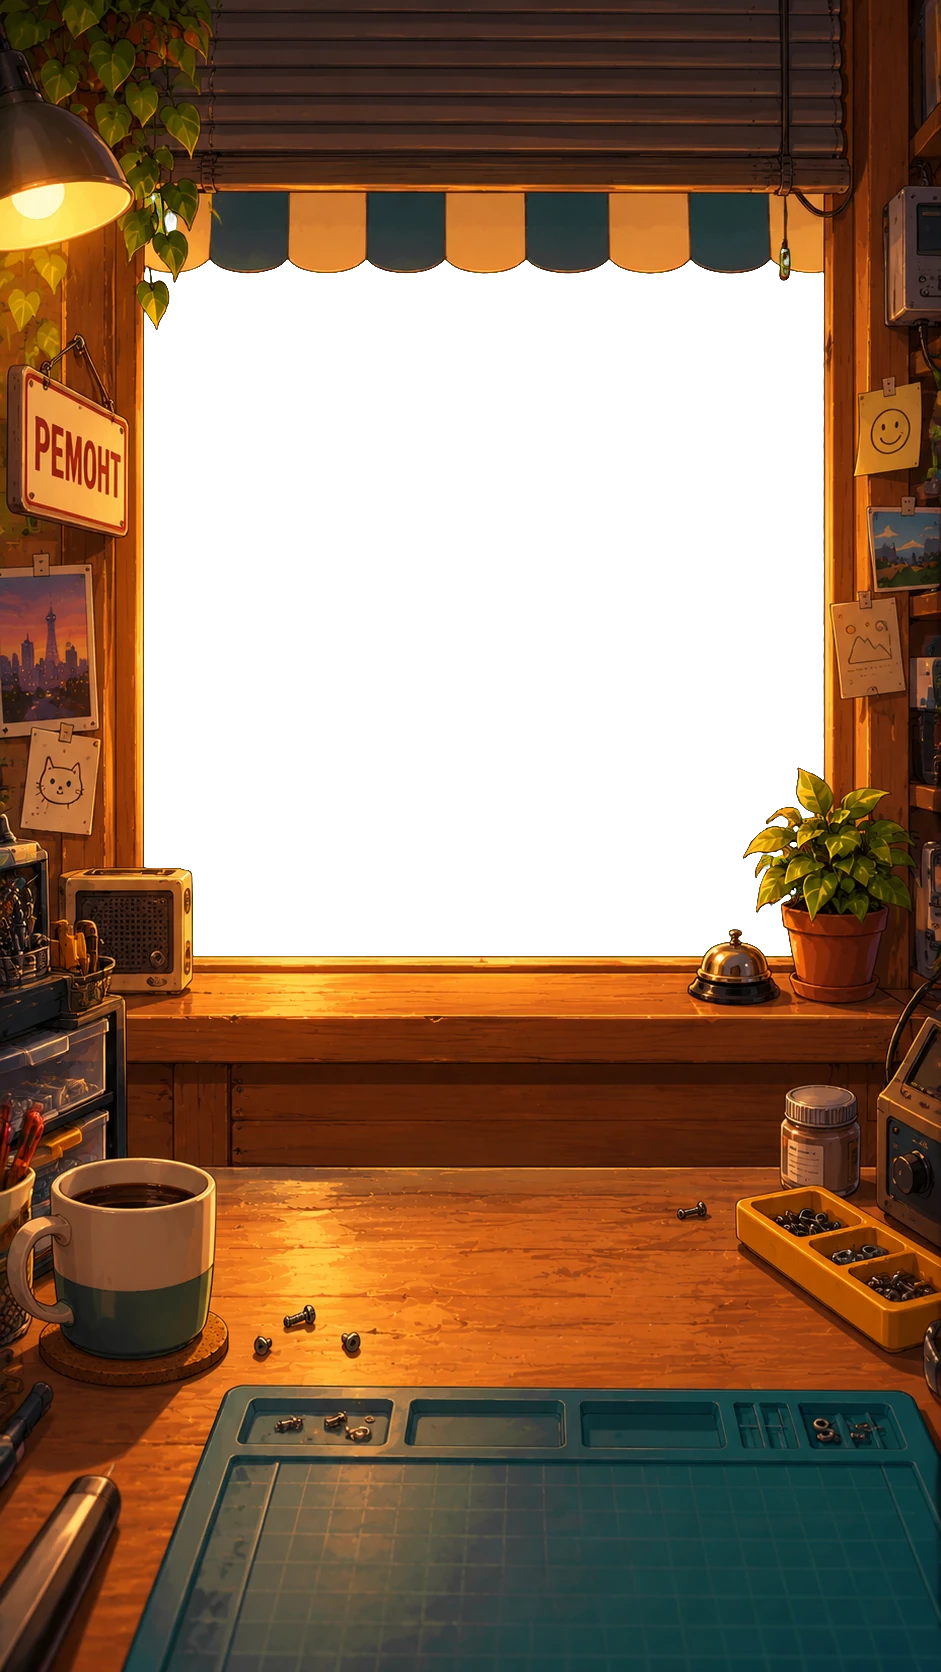
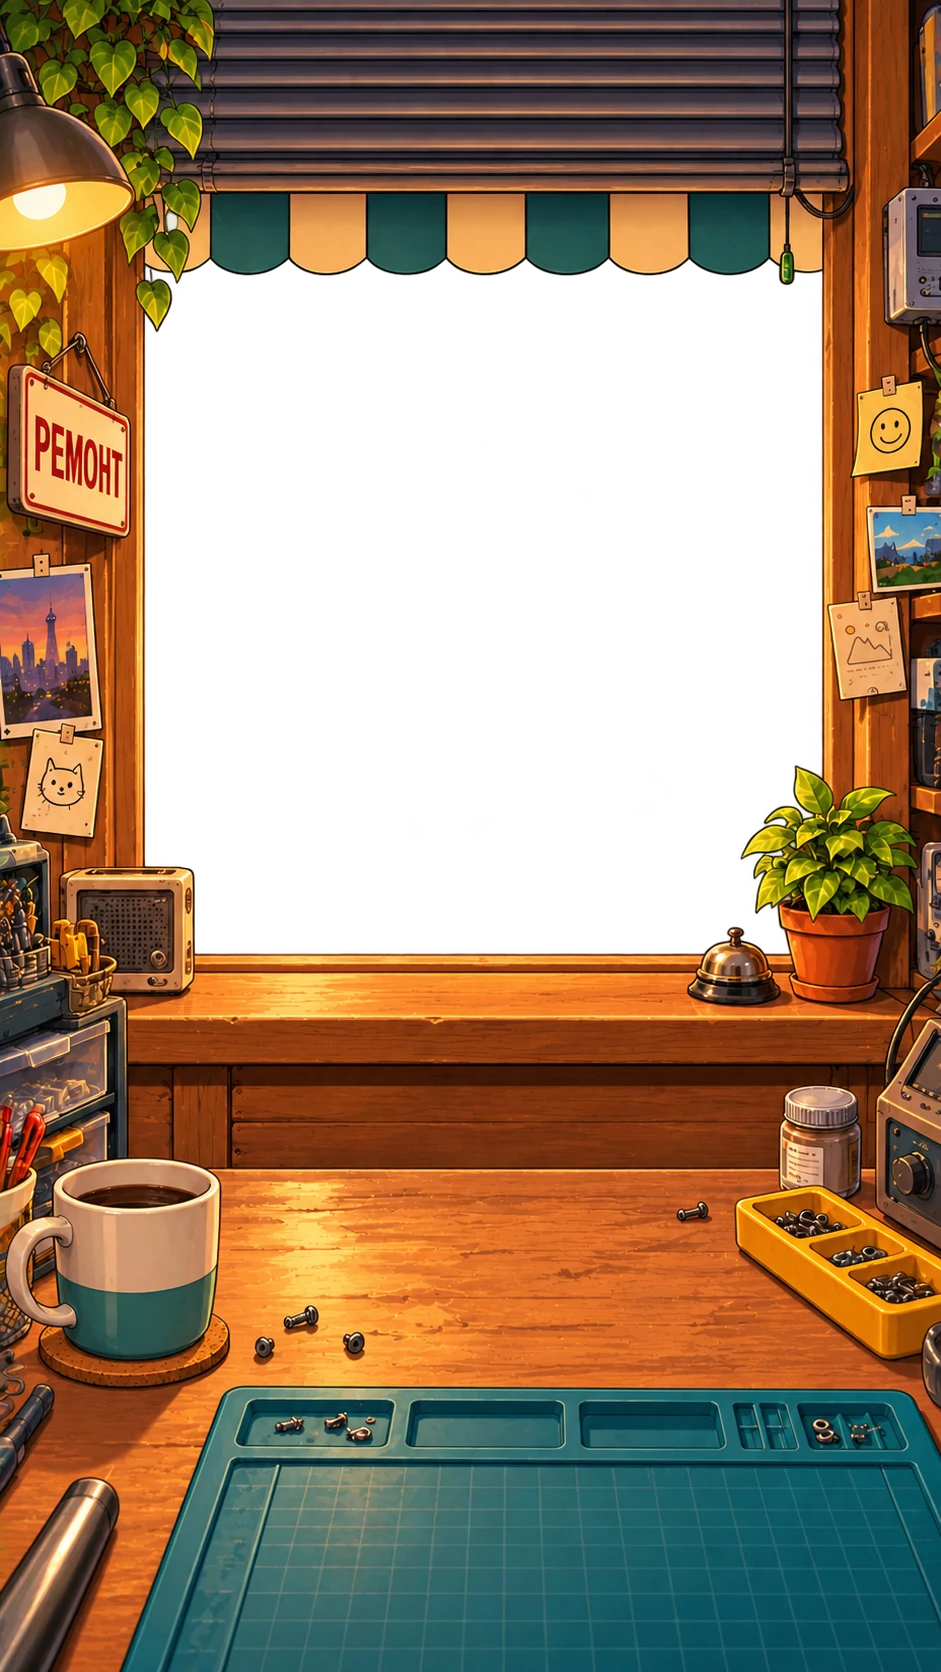
The kiosk by day and night is the same painting in another light
The new evening painting of the kiosk becomes the base, and its day and night pictures are made from it by
tools/relight_kiosk.py: neutral daylight with the sun on the sill and the desk; a dark blue room at night with the lamp's
warm corner and the street lamps on the sill. The three line up to the pixel, so nothing drifts while one fades into
another, and the evening needs no tint over the day picture any more.

Claude-Session: https://claude.ai/code/session_01WJGFWXUd94yv5hf5kEfw4n

diff --git a/game/index.html b/game/index.html
@@ -2833,20 +2833,15 @@ function drawStreet() {
     multiply(bg, L.mul, 0, 0, W, H);
   }
   if (artOk(ART.kiosk)) {
-    // the room by day, evening and night. The day and night pictures are one painting in two lights; the evening one is a
-    // painting of its own with the awning and the bell elsewhere, so with both at hand the evening is the day picture in the
-    // sunset light — or the old awning would show through the window of the new one
-    const { day, night } = dayNight(), eve = Math.max(0, 1 - day - night), at = [m.x(0), m.y(0), 941 * m.s, 1672 * m.s];
-    const dOk = artOk(ART.kiosk_day), nOk = artOk(ART.kiosk_night), both = dOk && nOk;
-    const mix = both ? [['kiosk_day', 1 - night], ['kiosk_night', night]]
-      : [['kiosk', 1 - (dOk ? day : 0) - (nOk ? night : 0)], ['kiosk_day', dOk ? day : 0], ['kiosk_night', nOk ? night : 0]];
+    // the room by day, evening and night: one painting in three lights (tools/relight_kiosk.py), so they fade into each
+    // other without anything moving
+    const { day, night } = dayNight(), at = [m.x(0), m.y(0), 941 * m.s, 1672 * m.s];
+    const d = artOk(ART.kiosk_day) ? day : 0, n = artOk(ART.kiosk_night) ? night : 0;
+    const mix = [['kiosk', 1 - d - n], ['kiosk_day', d], ['kiosk_night', n]];
     // the shutter goes first and the room over it, so it shows only through the window and comes down from behind the awning
     if (shut > 0 && artOk(ART.shutter_slats) && artOk(ART.shutter_bar)) drawShutter(fg, m, day, night);
     drawMix(fg, mix, at);
-    const left = both ? eve : mix[0][1];
-    fg.save(); fg.globalCompositeOperation = 'source-atop'; multiply(fg, [...L.room.slice(0, 3), L.room[3] * left], 0, 0, W, H);
-    if (both) multiply(fg, [255, 196, 150, .3 * eve], 0, 0, W, H);
-    fg.restore();
+    fg.save(); fg.globalCompositeOperation = 'source-atop'; multiply(fg, [...L.room.slice(0, 3), L.room[3] * mix[0][1]], 0, 0, W, H); fg.restore();
   }
   else { fg.fillStyle = '#4b2f1c'; fg.beginPath(); fg.rect(0, 0, W, H); fg.rect(win.x + win.w, win.y, -win.w, win.h); fg.fill('evenodd'); }
   STREET.win = win; STREET.top = top;

diff --git a/game/tools/relight_kiosk.py b/game/tools/relight_kiosk.py
@@ -1,0 +1,47 @@
+# the day and night kiosk from the evening one: the same painting in another light, so the three line up exactly
+# usage: python3 relight_kiosk.py <evening kiosk picture> <output folder>  → kiosk_day.webp and kiosk_night.webp (and .png previews)
+import numpy as np, cv2, sys
+from PIL import Image
+src_p, out_dir = sys.argv[1], sys.argv[2]
+S = np.array(Image.open(src_p).convert('RGBA')).astype(np.float32) / 255
+rgb, A = S[..., :3], S[..., 3]
+lin = rgb ** 2.2
+H, W = A.shape
+yy, xx = np.mgrid[0:H, 0:W].astype(np.float32)
+lum = lambda x: (x * [.2126, .7152, .0722]).sum(-1, keepdims=True)
+def blur(m, s): return cv2.GaussianBlur(m.astype(np.float32), (0, 0), s)
+def tone(x, white=1.6):           # soft shoulder instead of a hard clip
+    return x * (1 + x / white ** 2) / (1 + x)
+def out(x, name):
+    x = np.clip(x, 0, 1) ** (1 / 2.2)
+    im = np.dstack([x, A[..., None]]) * 255
+    Image.fromarray(im.round().astype(np.uint8), 'RGBA').save(f'{out_dir}/{name}.webp', quality=92, method=6)
+    Image.fromarray(im.round().astype(np.uint8), 'RGBA').save(f'{out_dir}/{name}.png')
+
+# where the light comes in: the window opening (its bottom edge is the sill), and the lamp in the top left corner
+hole = (A < .5).astype(np.float32)
+hole[:200] = 0
+win_glow = blur(hole, 60)                        # near the window
+below = np.clip((yy - 950) / 1, 0, 1) * np.exp(-np.clip(yy - 950, 0, None) / 380) * np.exp(-((xx - 480) / 420) ** 4)
+bulb = np.array([40, 205], np.float32)
+dx, dy = xx - bulb[0], yy - bulb[1]; d = np.hypot(dx, dy) + 1
+axis = np.array([.55, .835]); cone = np.clip((dx * axis[0] + dy * axis[1]) / d, 0, 1) ** 1.5
+lamp_light = cone * np.exp(-(d / 430) ** 2)
+lamp_self = blur(((xx < 150) & (yy > 60) & (yy < 250) & ((xx - 60) ** 2 / 95 ** 2 + (yy - 215) ** 2 / 45 ** 2 < 1)).astype(np.float32), 6)
+
+# DAY: neutral daylight, brighter, sun through the window onto the sill and the desk
+day = lin * np.array([.76, .97, 1.4]) * 2.0
+day = day * (1 + .5 * below[..., None] + .2 * win_glow[..., None])
+day = tone(day)
+g = lum(day); day = g + (day - g) * .85
+out(day, 'kiosk_day')
+
+# NIGHT: a dark blue room; the lamp lights its corner warm; the street lights glow a little through the window
+g = lum(lin); grey = g + (lin - g) * .3
+amb = grey * np.array([.095, .15, .30])
+lamp = lin * np.array([1.0, .8, .52]) * (2.5 * lamp_light[..., None])
+street = lin * np.array([.62, .55, .5]) * (.28 * below[..., None] * np.exp(-np.clip(yy - 950, 0, None) / 160)[..., None] + .12 * win_glow[..., None])
+night = amb + lamp + street
+night = night * (1 - lamp_self[..., None]) + lin * 1.05 * lamp_self[..., None]
+night = tone(night)
+out(night, 'kiosk_night')
